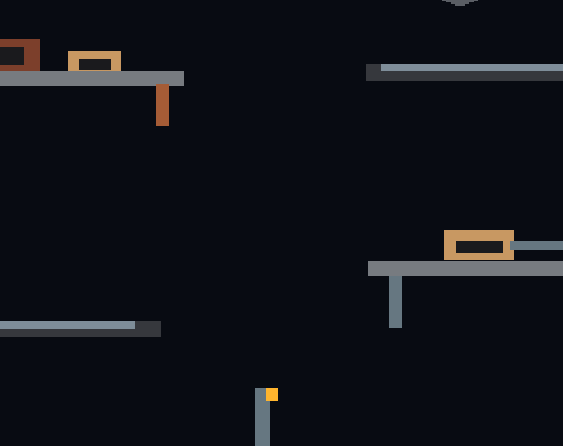
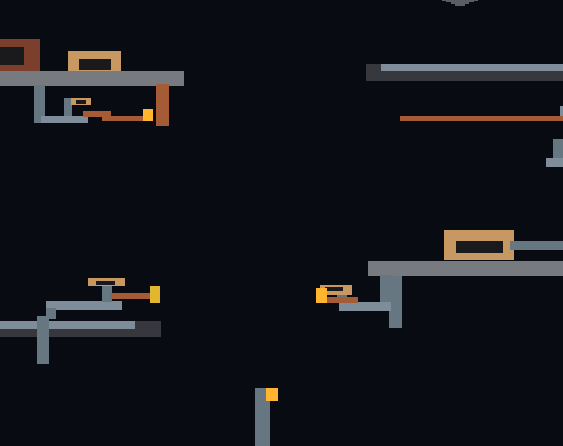
PORTRAIT-REPAIR-001 R1: paired Quoin census handoffs with source-static replay and indexed gallery

diff --git a/cybersand-canvases/1024x2048/portrait-obvious-quoin-braided-census-faultwell-261121/README.md b/cybersand-canvases/1024x2048/portrait-obvious-quoin-braided-census-faultwell-261121/README.md
@@ -23,9 +23,9 @@ The deterministic fixed-seed builder regenerates `setup.json`, `receipt.json`, `
[1 lines of base64/hex data omitted]
 - Portrait base `sandmapsreference/main@99a166e7fcae45eb22be1740e9f33f62faccbcc7`.
 - Accepted CyberSand read-only schema/material/actor authority `techrote/cybersand/main@69209acaffb34ebe18c45e19290b5976b7fb2c82`.
[1 lines of base64/hex data omitted]
-- Lossless disjoint rectangles **1053/32,768**; JSON bytes **20597/1,048,576**; material writes **661970**.
-- Stable rooted structure **659879/659879**, 0 detached; **31237** provisional unsupported decorative cells explicitly pruned prior to final material plane.
[1 lines of base64/hex data omitted]
+- Lossless disjoint rectangles **1120/32,768**; JSON bytes **21862/1,048,576**; material writes **669192**.
+- Stable rooted structure **667101/667101**, 0 detached; **31237** provisional unsupported decorative cells explicitly pruned prior to final material plane.
 - Fully enclosed initial water/lava **1092/999**; 0 exposed faces; 0 water–lava touching contacts.
 - Exact full-hull Midge **18/18, 18/18, 18/18** at 19×15 / 23×19 / 31×27. Physical blockage `[441,880,151,113]` keeps **18/18** sites and forces **214 → 356** exact 31×27 West mid interlock→East mid assay four-neighbour steps.
 - **3523590** actual material-index PNG pixels checked by the builder (overview + six 1:1 crops), zero disagreements. PNG integrity, CRC, stored DEFLATE and SHA-256 are recorded in `receipt.json`.
@@ -43,3 +43,7 @@ The deterministic fixed-seed builder regenerates `setup.json`, `receipt.json`, `
 ## Delivery gate
 
 **Draft/HOLD, NATIVE-UNTESTED**: source-static checks executed inside authoring JS, *not* actual Godot/Workbench/CyberDemoBridge/Rapier, material physics advancement, dynamic collision, hot load, save/reopen. No native PASS, CI PASS, independent Art/Technical/Shepherd acceptance or owner sign-off is claimed. Request independent exact-HEAD review, preserve authoring voids and source PR unchanged.
+
+## R1 bounded portrait repair — current child HEAD
+
+Independent source-static Art REWORK on parent 9e3e80d5f6dbe1e307e0d4afc1460402328e9cd3 identified missing coupled two-well scientific handoffs, not inadequate overall architecture. This child adds two dissimilar, rock-connected paired census interfaces in original cell coordinates: an upper copper/optical transfer at y≈837–926 and a lower stepped assay handoff at y≈1014–1103. Both preserve substantial open-air receiver gaps, Midge navigation and the two original measurement annuli. Altered cells: 7495; exact inclusive bbox `[274,824,834,1102]`. Baseline and after images: compare original parent `03-mid-assay.png`/`04-west-quarantine.png` to their child-HEAD equivalents (and the full material overview). Updated source-static replay and indexed PNG parity pass; **independent Art/Technical delta reviews and Windows native actor/load/save tests are still pending**. The original parent/donor branches remain unchanged.
